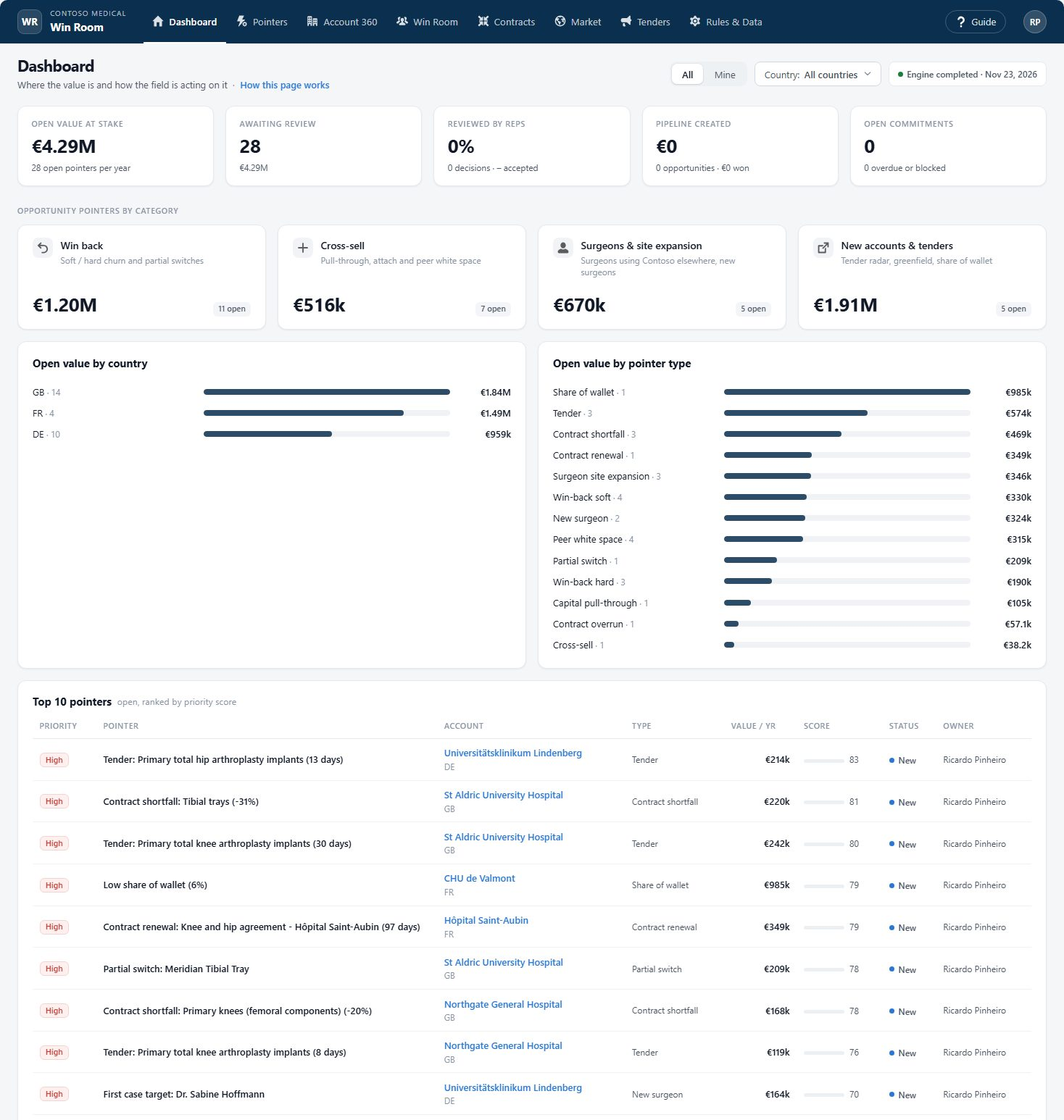
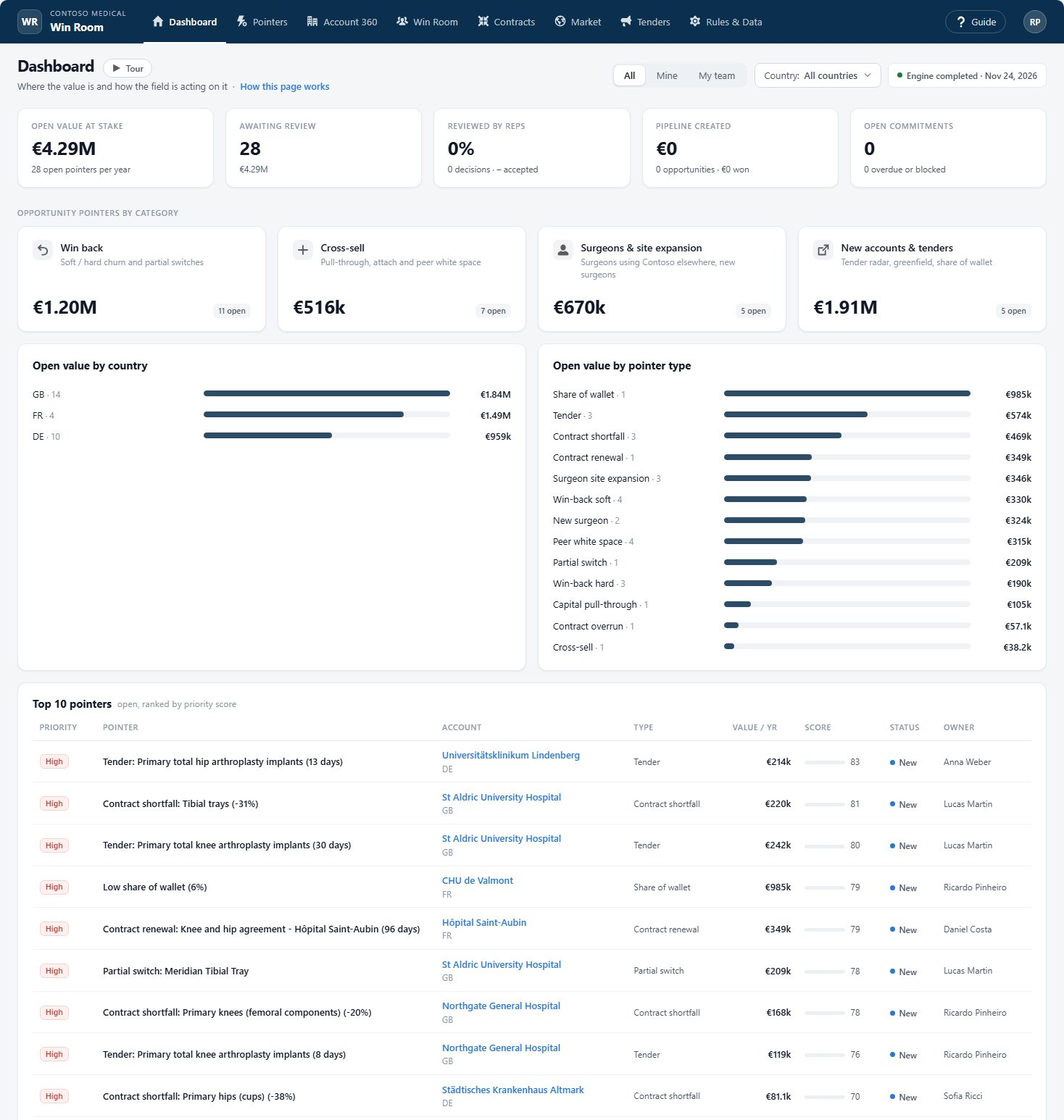
Win Room: page tours, team scope and rule dialog
Case study adds an Adoption section and five screenshots; screenshots
refreshed; M facts cover the tours, My team scope and custom rules.

diff --git a/salesforce-win-room.html b/salesforce-win-room.html
@@ -1,2 +1,2 @@
 <!DOCTYPE html>
-<html lang="en"><head><meta charset="utf-8"/><meta content="width=device-width,initial-scale=1" name="viewport"/><meta content="#070e19" name="theme-color"/><meta content="Technical case study: Salesforce Win Room by Ricardo Pinheiro. A win room for field sales built on Salesforce: a rules engine finds customer-level opportunities in sales data, reps act on explainable pointers with an optional AI summary, contracts are tracked against delivered volume, public tenders are read from the EU and UK procurement APIs, and a weekly win room turns it all into commitments, in Apex and Lightning Web Components." name="description"/><meta content="index,follow" name="robots"/><link href="https://ricardo19-deve.github.io/salesforce-win-room.html" rel="canonical"/><meta content="Salesforce Win Room — Engineering Case Study | Ricardo Pinheiro" property="og:title"/><meta content="Rules engine, explainable pointers, contract compliance and a weekly win room built on Salesforce with Apex and LWC." property="og:description"/><meta content="article" property="og:type"/><meta content="https://ricardo19-deve.github.io/salesforce-win-room.html" property="og:url"/><meta content="https://ricardo19-deve.github.io/portrait.jpg" property="og:image"/><title>Salesforce Win Room — Engineering Case Study | Ricardo Pinheiro</title><link href="case-study.css" rel="stylesheet"/></head><body><div aria-hidden="true" class="scrollbar"></div><header class="top wrap"><a class="brand" href="index.html#projects">RP<span>.</span></a><nav aria-label="Page navigation" class="topnav"><a href="index.html#projects">← All projects</a><a href="index.html#certifications">Certifications</a><a href="index.html#contact">Connect</a></nav></header><main class="wrap"><section class="hero fade"><div class="eyebrow">ENGINEERING CASE STUDY / 06</div><h1>Salesforce Win Room<span class="gradient">.</span></h1><p class="lead">From sales data to weekly commitments, inside Salesforce.</p><div class="status">Open-source module · Apex · Lightning Web Components · Experience Cloud</div></section><section aria-label="Project context" class="two fade"><div class="glass panel"><div class="small-label">THE CONTEXT</div><h2>What I set out to solve.</h2><p>Field sales teams sit on months of sales data, yet the signals in it are found late or not at all: a hospital that slowly moves one component to a competitor, a surgeon who starts operating somewhere else, a tender deadline that slips past, a contract that is quietly under-delivered. When analytics exist, they usually live outside the CRM, so nothing connects them to the pipeline or to a weekly follow-up.</p><p>This module keeps the whole loop on the platform the team already works in, published as a neutral open-source reference with fictitious data.</p></div><div class="glass panel"><div class="small-label">THE ENGINEERING QUESTION</div><h2>Explainable before intelligent.</h2><p>How can opportunities be found automatically in sales data, explained with the numbers behind them so a rep can challenge them, and followed up every week until they become committed actions, without an external analytics stack and without letting AI decide what is true?</p></div></section><section aria-label="Interactive architecture" class="architecture fade"><div class="section-heading"><div><div class="small-label">EXPLORE THE SYSTEM</div><h2 class="section-title">Architecture, <span class="gradient">layer by layer.</span></h2></div><p>Select a component to understand its responsibility. Simplified reference architecture, not a production infrastructure diagram.</p></div><div class="arch-layout"><div class="glass arch-map"><div class="arch-step"><span class="step-number">01</span><button aria-pressed="true" class="node active" data-detail="Monthly units and revenue per account and product line, account profiles (segment, procedure volumes, rollout phase), surgeons and the hospitals they operate in, public tenders read from the EU and UK procurement APIs, volume contracts and hospital volumes from a public registry. Demo data is generated with planted patterns so every rule has something to find." data-title="Data" type="button"><b>Data</b><span>Monthly sell-in · profiles · contracts</span></button></div><div aria-hidden="true" class="connector"></div><div class="arch-step"><span class="step-number">02</span><button aria-pressed="false" class="node" data-detail="Two batches: peer benchmarks per segment, then 15 configurable rules per account: churn and partial switches, component and capital pull-through, white space against similar hospitals, surgeon site expansion, new surgeons, tenders, share of wallet, and contract shortfall, overrun and renewal. One pointer per customer and product, scored 0 to 100." data-title="Rules engine" type="button"><b>Rules engine</b><span>Batch Apex · 15 rules</span></button></div><div aria-hidden="true" class="connector"></div><div class="arch-step"><span class="step-number">03</span><button aria-pressed="false" class="node" data-detail="Every pointer carries the numbers that triggered it, a chart and a plain rationale. Reps accept it, reject it with a reason or turn it into an Opportunity. An optional model behind a Named Credential writes the why, the what, talking points and questions; without it the portal shows a rule-based summary." data-title="Pointers and AI" type="button"><b>Pointers and AI</b><span>LWC portal · Named Credential</span></button></div><div aria-hidden="true" class="connector"></div><div class="arch-step"><span class="step-number">04</span><button aria-pressed="false" class="node" data-detail="A weekly win room asks the same seven questions and records commitments with owners and due dates. Contracts compare committed and delivered volume month by month with a run-rate and a projection, a market view shows public registry volumes per hospital, and a tender radar brings real public notices matched to accounts. A built-in guide explains every page and calculation." data-title="Win room and control" type="button"><b>Win room and control</b><span>Sessions · contracts · market · tenders</span></button></div></div><div aria-live="polite" class="glass panel detail"><div class="number" id="detail-num">LAYER 01 / 04</div><h3 id="detail-title">Data</h3><p id="detail-body">Monthly units and revenue per account and product line, account profiles (segment, procedure volumes, rollout phase), surgeons and the hospitals they operate in, public tenders read from the EU and UK procurement APIs, volume contracts and hospital volumes from a public registry. Demo data is generated with planted patterns so every rule has something to find.</p><div class="hint">↖ Select any architecture layer to explore</div></div></div></section><section aria-label="Identify and activate" class="two fade"><div class="glass panel"><div class="small-label">IDENTIFY</div><h2>Rules that show their working.</h2><p>Fifteen rules in eleven types look for churn, partial switches to a competitor, missing components, robotic workflows, white space against similar hospitals, surgeons who use the product elsewhere, new surgeons, tenders closing soon, low share of wallet and contracts that run under or over their commitment.</p><p>Each pointer stores the facts that triggered it and a monthly chart, so the rationale is a set of numbers, not a score from a black box. Re-running the engine updates the numbers but never overwrites a rep&#39;s decision, and pointers that are no longer detected expire.</p></div><div class="glass panel"><div class="small-label">ACTIVATE</div><h2>From pointer to Opportunity.</h2><p>Reps review the pointers ranked by value and urgency, accept them, reject them with a reason or turn them into an Opportunity in the org&#39;s first open stage. The acceptance rate per rule shows which rules need tuning.</p><p>An optional language model, reached only through a Named Credential, writes the why, the what, next best actions, talking points and discovery questions. Without it, every screen works with a rule-based summary.</p></div></section><section aria-label="Execute and control" class="two fade"><div class="glass panel"><div class="small-label">EXECUTE</div><h2>The same 7 questions every 7 days.</h2><p>A weekly win room per team reviews wins and losses, new pointers, accepted pointers without action, overdue commitments, stuck opportunities and tenders closing soon, and records what the team commits to for next week, with owners and due dates. An optional briefing prepares the facilitator.</p></div><div class="glass panel"><div class="small-label">CONTROL</div><h2>Contracts against delivered volume.</h2><p>Volume contracts hold a committed quantity per month and product line. The portal compares committed and delivered units month by month, with the cumulative variance, the six-month run-rate and a projection to the end of the term, and rates each line On track, Under or Over against a tolerance.</p><p>A shortfall becomes a win-back pointer, an overrun a prompt to renegotiate the tier, and a contract that ends within six months a renewal pointer.</p></div></section><section aria-label="Market and design" class="two fade"><div class="glass panel"><div class="small-label">MARKET</div><h2>Public registry volumes per hospital.</h2><p>A market view imports the public CSV export of the UK National Joint Registry. The browser parses the file and keeps the last 24 complete months, so only aggregates reach Salesforce, with no scraping and no callout. Hospitals are matched to accounts by hospital or trust name, and linked accounts use the real procedure volumes for share of wallet and peer sizing.</p></div><div class="glass panel"><div class="small-label">DESIGN SYSTEM</div><h2>Neutral in every org.</h2><p>Custom dropdowns, switches and buttons replace themed base components, so the portal looks the same whatever the brand colour of the org, in a Lightning tab and in a full-screen Experience Cloud (LWR) site. The line charts use a colour palette checked for colour-blind separation, with a legend, a crosshair tooltip and a table view.</p></div></section><section aria-label="Tenders and guide" class="two fade"><div class="glass panel"><div class="small-label">TENDERS</div><h2>Real public tenders, matched to accounts.</h2><p>A batch reads TED (EU), Find a Tender (UK) and Public Contracts Scotland through their public APIs, one item per source or 30-day window so every portal gets its own limits, with all callouts before any write. Notices are kept when a lot uses one of the configured CPV codes, normalised into one shape (earliest open deadline, lots summed, value converted to EUR, link to the official notice), categorised from keywords in several languages and de-duplicated across portals.</p><p>Buyers are matched to accounts of the same country after removing accents and noise words in several languages; each part of a long buyer name is scored, and a link is only automatic when two words agree. Linked open tenders become tender radar pointers, and human statuses and links survive every sync.</p></div><div class="glass panel"><div class="small-label">GUIDE</div><h2>Every number, explained in the portal.</h2><p>A guide view explains each page: what it shows, where the data comes from and how every number is calculated, from the priority score to contract projections and tender matching. It reads the live rule settings of the org, so the documentation cannot drift from what the engine uses, and it doubles as a ten-minute demo script. Every page links to its own section.</p></div></section><section aria-label="Screenshots" class="fade"><div class="small-label">SEE IT RUNNING</div><h2>Captured in a Developer Edition org.</h2><p class="shots-note">Fictitious demo data created by the seed script in the repository; the market view shows public registry volumes and the tenders view shows real public notices. Select an image to open it full size.</p><div class="shots"><figure class="shot"><a href="assets/salesforce-win-room/dashboard.jpg" target="_blank" rel="noopener"><img alt="Dashboard with value at stake, the four opportunity categories, value by country and by type, and the top 10 pointers" decoding="async" loading="lazy" src="assets/salesforce-win-room/dashboard.jpg"/></a><figcaption>Dashboard: where the value is and how the field acts on it</figcaption></figure><figure class="shot"><a href="assets/salesforce-win-room/pointers.jpg" target="_blank" rel="noopener"><img alt="Pointer list with search, filters, priority, value at stake, score, due date and owner" decoding="async" loading="lazy" src="assets/salesforce-win-room/pointers.jpg"/></a><figcaption>Pointers: ranked customer-level opportunities</figcaption></figure><figure class="shot"><a href="assets/salesforce-win-room/pointer-insight.jpg" target="_blank" rel="noopener"><img alt="Pointer detail with the rationale, the facts that triggered it, a monthly chart, the AI summary and the playbook" decoding="async" loading="lazy" src="assets/salesforce-win-room/pointer-insight.jpg"/></a><figcaption>Pointer: the why with numbers, the chart and the AI summary</figcaption></figure><figure class="shot"><a href="assets/salesforce-win-room/create-opportunity.jpg" target="_blank" rel="noopener"><img alt="Create opportunity form inside an accepted pointer" decoding="async" loading="lazy" src="assets/salesforce-win-room/create-opportunity.jpg"/></a><figcaption>From pointer to Opportunity in one step</figcaption></figure><figure class="shot"><a href="assets/salesforce-win-room/account-360.jpg" target="_blank" rel="noopener"><img alt="Account 360 with pointers by category, the contract, the revenue trend, product lines and surgeons" decoding="async" loading="lazy" src="assets/salesforce-win-room/account-360.jpg"/></a><figcaption>Account 360: one hospital, every signal</figcaption></figure><figure class="shot"><a href="assets/salesforce-win-room/win-room.jpg" target="_blank" rel="noopener"><img alt="Weekly win room session with the seven questions and the new pointers to assign" decoding="async" loading="lazy" src="assets/salesforce-win-room/win-room.jpg"/></a><figcaption>Win room: the same 7 questions every 7 days</figcaption></figure><figure class="shot"><a href="assets/salesforce-win-room/contracts.jpg" target="_blank" rel="noopener"><img alt="Contracts list with health, delivered versus committed, variance to date, annual value and renewals" decoding="async" loading="lazy" src="assets/salesforce-win-room/contracts.jpg"/></a><figcaption>Contracts: health and compliance at a glance</figcaption></figure><figure class="shot"><a href="assets/salesforce-win-room/contract-detail.jpg" target="_blank" rel="noopener"><img alt="Contract detail with committed versus delivered units per month, run-rate and projection for each line" decoding="async" loading="lazy" src="assets/salesforce-win-room/contract-detail.jpg"/></a><figcaption>Contract: committed vs delivered, month by month</figcaption></figure><figure class="shot"><a href="assets/salesforce-win-room/contract-pointer.jpg" target="_blank" rel="noopener"><img alt="Contract shortfall pointer with the delivery chart against the commitment" decoding="async" loading="lazy" src="assets/salesforce-win-room/contract-pointer.jpg"/></a><figcaption>A shortfall becomes a pointer for the win room</figcaption></figure><figure class="shot"><a href="assets/salesforce-win-room/market.jpg" target="_blank" rel="noopener"><img alt="Market view with public UK National Joint Registry hip and knee volumes per hospital, trend and market value" decoding="async" loading="lazy" src="assets/salesforce-win-room/market.jpg"/></a><figcaption>Market: public registry volumes per hospital</figcaption></figure><figure class="shot"><a href="assets/salesforce-win-room/tenders.jpg" target="_blank" rel="noopener"><img alt="Tenders view with real open notices from TED and Find a Tender, the source settings with CPV filters, deadlines, values in EUR and account matching" decoding="async" loading="lazy" src="assets/salesforce-win-room/tenders.jpg"/></a><figcaption>Tenders: real public notices, filtered and matched to accounts</figcaption></figure><figure class="shot"><a href="assets/salesforce-win-room/tender-detail.jpg" target="_blank" rel="noopener"><img alt="Expanded tender with the description, reference, CPV codes, value in the notice currency and in EUR, and status actions" decoding="async" loading="lazy" src="assets/salesforce-win-room/tender-detail.jpg"/></a><figcaption>Tender: the notice details behind the radar</figcaption></figure><figure class="shot"><a href="assets/salesforce-win-room/guide.jpg" target="_blank" rel="noopener"><img alt="In-portal guide with the loop, design principles and a table of where every piece of data comes from" decoding="async" loading="lazy" src="assets/salesforce-win-room/guide.jpg"/></a><figcaption>Guide: every page, every data source</figcaption></figure><figure class="shot"><a href="assets/salesforce-win-room/guide-calculations.jpg" target="_blank" rel="noopener"><img alt="Guide section with the rule types, the priority score formula, the dedupe rules and the live rule settings" decoding="async" loading="lazy" src="assets/salesforce-win-room/guide-calculations.jpg"/></a><figcaption>Guide: the calculations behind every number</figcaption></figure><figure class="shot"><a href="assets/salesforce-win-room/rules.jpg" target="_blank" rel="noopener"><img alt="Rules table with thresholds, windows, product lines and playbooks, editable without code" decoding="async" loading="lazy" src="assets/salesforce-win-room/rules.jpg"/></a><figcaption>Rules: tuned by the business, no code</figcaption></figure><figure class="shot"><a href="assets/salesforce-win-room/data.jpg" target="_blank" rel="noopener"><img alt="Data view with demo data generation, purge and account scope by rollout phase" decoding="async" loading="lazy" src="assets/salesforce-win-room/data.jpg"/></a><figcaption>Data: demo data and rollout scope</figcaption></figure><figure class="shot"><a href="assets/salesforce-win-room/filters.jpg" target="_blank" rel="noopener"><img alt="Scope switch and country dropdown" decoding="async" loading="lazy" src="assets/salesforce-win-room/filters.jpg"/></a><figcaption>Neutral controls that look the same in every org</figcaption></figure></div></section><section class="fade"><div class="glass panel"><div class="small-label">ENGINEERING PRACTICES</div><h2>Built to be handed over.</h2><p>Apex tests that run as a user with only the module permission set and plant every pattern the rules look for, Apex tests for the tender feeds with mocked portal responses, Jest tests for the shared helpers, the registry CSV parser, the tender view and the guide, linting and tests in continuous integration, header comments for future maintainers, a demo data generator with a compact mode for the 5 MB of a Developer Edition org, and documentation of the rules, the data model and a talk track, plus the in-portal guide.</p></div><div class="small-label" style="margin-top:70px">TECHNICAL TOOLKIT</div><div class="tags"><span class="tag">Apex</span><span class="tag">Lightning Web Components</span><span class="tag">Batch Apex</span><span class="tag">Schedulable Apex</span><span class="tag">REST callouts</span><span class="tag">OCDS</span><span class="tag">SOQL user mode</span><span class="tag">Named Credentials</span><span class="tag">Custom objects</span><span class="tag">Experience Cloud (LWR)</span><span class="tag">SVG charts</span><span class="tag">CSS design tokens</span><span class="tag">Browser-side CSV parsing</span><span class="tag">Apex tests</span><span class="tag">Jest</span><span class="tag">GitHub Actions</span></div><div class="glass panel"><div class="small-label">CURRENT STATE / NEXT EVIDENCE</div><h2>What the evidence supports.</h2><p>The module is published as an open-source repository and deploys to a Salesforce Developer Edition org. The screenshots above come from such an org with fictitious data; the only real data shown is the public registry export and public tender notices.</p></div><div class="links"><a class="linkbtn" href="https://github.com/Ricardo19-Deve/salesforce-win-room" rel="noopener noreferrer" target="_blank">View source on GitHub ↗</a><a class="linkbtn" href="https://www.linkedin.com/in/ricardoappinheiro/" rel="noopener noreferrer" target="_blank">Discuss this project ↗</a><a class="linkbtn" href="index.html#projects">Back to portfolio ↗</a></div></section></main><footer class="footer wrap"><span>Ricardo Pinheiro · Open-source engineering case study</span><span>Designed to be explored, not just read.</span></footer><script defer="" src="case-study.js"></script><script type="module" src="./m-analytics-bootstrap.mjs?v=34"></script></body></html>
+<html lang="en"><head><meta charset="utf-8"/><meta content="width=device-width,initial-scale=1" name="viewport"/><meta content="#070e19" name="theme-color"/><meta content="Technical case study: Salesforce Win Room by Ricardo Pinheiro. A win room for field sales built on Salesforce: a rules engine finds customer-level opportunities in sales data, reps act on explainable pointers with an optional AI summary, contracts are tracked against delivered volume, public tenders are read from the EU and UK procurement APIs, and a weekly win room turns it all into commitments, in Apex and Lightning Web Components." name="description"/><meta content="index,follow" name="robots"/><link href="https://ricardo19-deve.github.io/salesforce-win-room.html" rel="canonical"/><meta content="Salesforce Win Room — Engineering Case Study | Ricardo Pinheiro" property="og:title"/><meta content="Rules engine, explainable pointers, contract compliance and a weekly win room built on Salesforce with Apex and LWC." property="og:description"/><meta content="article" property="og:type"/><meta content="https://ricardo19-deve.github.io/salesforce-win-room.html" property="og:url"/><meta content="https://ricardo19-deve.github.io/portrait.jpg" property="og:image"/><title>Salesforce Win Room — Engineering Case Study | Ricardo Pinheiro</title><link href="case-study.css" rel="stylesheet"/></head><body><div aria-hidden="true" class="scrollbar"></div><header class="top wrap"><a class="brand" href="index.html#projects">RP<span>.</span></a><nav aria-label="Page navigation" class="topnav"><a href="index.html#projects">← All projects</a><a href="index.html#certifications">Certifications</a><a href="index.html#contact">Connect</a></nav></header><main class="wrap"><section class="hero fade"><div class="eyebrow">ENGINEERING CASE STUDY / 06</div><h1>Salesforce Win Room<span class="gradient">.</span></h1><p class="lead">From sales data to weekly commitments, inside Salesforce.</p><div class="status">Open-source module · Apex · Lightning Web Components · Experience Cloud</div></section><section aria-label="Project context" class="two fade"><div class="glass panel"><div class="small-label">THE CONTEXT</div><h2>What I set out to solve.</h2><p>Field sales teams sit on months of sales data, yet the signals in it are found late or not at all: a hospital that slowly moves one component to a competitor, a surgeon who starts operating somewhere else, a tender deadline that slips past, a contract that is quietly under-delivered. When analytics exist, they usually live outside the CRM, so nothing connects them to the pipeline or to a weekly follow-up.</p><p>This module keeps the whole loop on the platform the team already works in, published as a neutral open-source reference with fictitious data.</p></div><div class="glass panel"><div class="small-label">THE ENGINEERING QUESTION</div><h2>Explainable before intelligent.</h2><p>How can opportunities be found automatically in sales data, explained with the numbers behind them so a rep can challenge them, and followed up every week until they become committed actions, without an external analytics stack and without letting AI decide what is true?</p></div></section><section aria-label="Interactive architecture" class="architecture fade"><div class="section-heading"><div><div class="small-label">EXPLORE THE SYSTEM</div><h2 class="section-title">Architecture, <span class="gradient">layer by layer.</span></h2></div><p>Select a component to understand its responsibility. Simplified reference architecture, not a production infrastructure diagram.</p></div><div class="arch-layout"><div class="glass arch-map"><div class="arch-step"><span class="step-number">01</span><button aria-pressed="true" class="node active" data-detail="Monthly units and revenue per account and product line, account profiles (segment, procedure volumes, rollout phase), surgeons and the hospitals they operate in, public tenders read from the EU and UK procurement APIs, volume contracts and hospital volumes from a public registry. Demo data is generated with planted patterns so every rule has something to find." data-title="Data" type="button"><b>Data</b><span>Monthly sell-in · profiles · contracts</span></button></div><div aria-hidden="true" class="connector"></div><div class="arch-step"><span class="step-number">02</span><button aria-pressed="false" class="node" data-detail="Two batches: peer benchmarks per segment, then 15 configurable rules per account: churn and partial switches, component and capital pull-through, white space against similar hospitals, surgeon site expansion, new surgeons, tenders, share of wallet, and contract shortfall, overrun and renewal. One pointer per customer and product, scored 0 to 100." data-title="Rules engine" type="button"><b>Rules engine</b><span>Batch Apex · 15 rules</span></button></div><div aria-hidden="true" class="connector"></div><div class="arch-step"><span class="step-number">03</span><button aria-pressed="false" class="node" data-detail="Every pointer carries the numbers that triggered it, a chart and a plain rationale. Reps accept it, reject it with a reason or turn it into an Opportunity. An optional model behind a Named Credential writes the why, the what, talking points and questions; without it the portal shows a rule-based summary." data-title="Pointers and AI" type="button"><b>Pointers and AI</b><span>LWC portal · Named Credential</span></button></div><div aria-hidden="true" class="connector"></div><div class="arch-step"><span class="step-number">04</span><button aria-pressed="false" class="node" data-detail="A weekly win room asks the same seven questions and records commitments with owners and due dates. Contracts compare committed and delivered volume month by month with a run-rate and a projection, a market view shows public registry volumes per hospital, and a tender radar brings real public notices matched to accounts. A built-in guide explains every page and calculation." data-title="Win room and control" type="button"><b>Win room and control</b><span>Sessions · contracts · market · tenders</span></button></div></div><div aria-live="polite" class="glass panel detail"><div class="number" id="detail-num">LAYER 01 / 04</div><h3 id="detail-title">Data</h3><p id="detail-body">Monthly units and revenue per account and product line, account profiles (segment, procedure volumes, rollout phase), surgeons and the hospitals they operate in, public tenders read from the EU and UK procurement APIs, volume contracts and hospital volumes from a public registry. Demo data is generated with planted patterns so every rule has something to find.</p><div class="hint">↖ Select any architecture layer to explore</div></div></div></section><section aria-label="Identify and activate" class="two fade"><div class="glass panel"><div class="small-label">IDENTIFY</div><h2>Rules that show their working.</h2><p>Fifteen rules in eleven types look for churn, partial switches to a competitor, missing components, robotic workflows, white space against similar hospitals, surgeons who use the product elsewhere, new surgeons, tenders closing soon, low share of wallet and contracts that run under or over their commitment.</p><p>Each pointer stores the facts that triggered it and a monthly chart, so the rationale is a set of numbers, not a score from a black box. Re-running the engine updates the numbers but never overwrites a rep&#39;s decision, and pointers that are no longer detected expire.</p></div><div class="glass panel"><div class="small-label">ACTIVATE</div><h2>From pointer to Opportunity.</h2><p>Reps review the pointers ranked by value and urgency, accept them, reject them with a reason or turn them into an Opportunity in the org&#39;s first open stage. The acceptance rate per rule shows which rules need tuning.</p><p>An optional language model, reached only through a Named Credential, writes the why, the what, next best actions, talking points and discovery questions. Without it, every screen works with a rule-based summary.</p></div></section><section aria-label="Execute and control" class="two fade"><div class="glass panel"><div class="small-label">EXECUTE</div><h2>The same 7 questions every 7 days.</h2><p>A weekly win room per team reviews wins and losses, new pointers, accepted pointers without action, overdue commitments, stuck opportunities and tenders closing soon, and records what the team commits to for next week, with owners and due dates. An optional briefing prepares the facilitator.</p></div><div class="glass panel"><div class="small-label">CONTROL</div><h2>Contracts against delivered volume.</h2><p>Volume contracts hold a committed quantity per month and product line. The portal compares committed and delivered units month by month, with the cumulative variance, the six-month run-rate and a projection to the end of the term, and rates each line On track, Under or Over against a tolerance.</p><p>A shortfall becomes a win-back pointer, an overrun a prompt to renegotiate the tier, and a contract that ends within six months a renewal pointer.</p></div></section><section aria-label="Market and design" class="two fade"><div class="glass panel"><div class="small-label">MARKET</div><h2>Public registry volumes per hospital.</h2><p>A market view imports the public CSV export of the UK National Joint Registry. The browser parses the file and keeps the last 24 complete months, so only aggregates reach Salesforce, with no scraping and no callout. Hospitals are matched to accounts by hospital or trust name, and linked accounts use the real procedure volumes for share of wallet and peer sizing.</p></div><div class="glass panel"><div class="small-label">DESIGN SYSTEM</div><h2>Neutral in every org.</h2><p>Custom dropdowns, switches and buttons replace themed base components, so the portal looks the same whatever the brand colour of the org, in a Lightning tab and in a full-screen Experience Cloud (LWR) site. The line charts use a colour palette checked for colour-blind separation, with a legend, a crosshair tooltip and a table view.</p></div></section><section aria-label="Tenders and guide" class="two fade"><div class="glass panel"><div class="small-label">TENDERS</div><h2>Real public tenders, matched to accounts.</h2><p>A batch reads TED (EU), Find a Tender (UK) and Public Contracts Scotland through their public APIs, one item per source or 30-day window so every portal gets its own limits, with all callouts before any write. Notices are kept when a lot uses one of the configured CPV codes, normalised into one shape (earliest open deadline, lots summed, value converted to EUR, link to the official notice), categorised from keywords in several languages and de-duplicated across portals.</p><p>Buyers are matched to accounts of the same country after removing accents and noise words in several languages; each part of a long buyer name is scored, and a link is only automatic when two words agree. Linked open tenders become tender radar pointers, and human statuses and links survive every sync.</p></div><div class="glass panel"><div class="small-label">GUIDE</div><h2>Every number, explained in the portal.</h2><p>A guide view explains each page: what it shows, where the data comes from and how every number is calculated, from the priority score to contract projections and tender matching. It reads the live rule settings of the org, so the documentation cannot drift from what the engine uses, and it doubles as a ten-minute demo script. Every page links to its own section.</p></div></section><section aria-label="Adoption" class="two fade"><div class="glass panel"><div class="small-label">ADOPTION</div><h2>A tour on every page.</h2><p>A Tour button next to each page title dims the screen and highlights the blocks of the page one by one: what each block is for, how its numbers are calculated and where the data comes from. Steps are data, each page exposes one small measuring method, and the spotlight follows scrolling and works with the keyboard. It turns a demo into a guided walk and gives new users an onboarding without a manual.</p></div><div class="glass panel"><div class="small-label">TEAMS AND RULES</div><h2>Manager view and rules without code.</h2><p>All, Mine and My team scopes follow the standard manager field of the user, so a sales manager sees the work of their reps. The demo adds six fictitious reps as free Chatter users, created with the welcome e-mail switched off. Rules are edited in a dialog that only shows the parameters each rule type uses, and admins can add a new rule of any of the eleven types or delete the ones they added.</p></div></section><section aria-label="Screenshots" class="fade"><div class="small-label">SEE IT RUNNING</div><h2>Captured in a Developer Edition org.</h2><p class="shots-note">Fictitious demo data created by the seed script in the repository; the market view shows public registry volumes and the tenders view shows real public notices. Select an image to open it full size.</p><div class="shots"><figure class="shot"><a href="assets/salesforce-win-room/dashboard.jpg" target="_blank" rel="noopener"><img alt="Dashboard with value at stake, the four opportunity categories, value by country and by type, and the top 10 pointers" decoding="async" loading="lazy" src="assets/salesforce-win-room/dashboard.jpg"/></a><figcaption>Dashboard: where the value is and how the field acts on it</figcaption></figure><figure class="shot"><a href="assets/salesforce-win-room/pointers.jpg" target="_blank" rel="noopener"><img alt="Pointer list with search, filters, priority, value at stake, score, due date and owner" decoding="async" loading="lazy" src="assets/salesforce-win-room/pointers.jpg"/></a><figcaption>Pointers: ranked customer-level opportunities</figcaption></figure><figure class="shot"><a href="assets/salesforce-win-room/pointer-insight.jpg" target="_blank" rel="noopener"><img alt="Pointer detail with the rationale, the facts that triggered it, a monthly chart, the AI summary and the playbook" decoding="async" loading="lazy" src="assets/salesforce-win-room/pointer-insight.jpg"/></a><figcaption>Pointer: the why with numbers, the chart and the AI summary</figcaption></figure><figure class="shot"><a href="assets/salesforce-win-room/create-opportunity.jpg" target="_blank" rel="noopener"><img alt="Create opportunity form inside an accepted pointer" decoding="async" loading="lazy" src="assets/salesforce-win-room/create-opportunity.jpg"/></a><figcaption>From pointer to Opportunity in one step</figcaption></figure><figure class="shot"><a href="assets/salesforce-win-room/account-360.jpg" target="_blank" rel="noopener"><img alt="Account 360 with pointers by category, the contract, the revenue trend, product lines and surgeons" decoding="async" loading="lazy" src="assets/salesforce-win-room/account-360.jpg"/></a><figcaption>Account 360: one hospital, every signal</figcaption></figure><figure class="shot"><a href="assets/salesforce-win-room/win-room.jpg" target="_blank" rel="noopener"><img alt="Weekly win room session with the seven questions and the new pointers to assign" decoding="async" loading="lazy" src="assets/salesforce-win-room/win-room.jpg"/></a><figcaption>Win room: the same 7 questions every 7 days</figcaption></figure><figure class="shot"><a href="assets/salesforce-win-room/contracts.jpg" target="_blank" rel="noopener"><img alt="Contracts list with health, delivered versus committed, variance to date, annual value and renewals" decoding="async" loading="lazy" src="assets/salesforce-win-room/contracts.jpg"/></a><figcaption>Contracts: health and compliance at a glance</figcaption></figure><figure class="shot"><a href="assets/salesforce-win-room/contract-detail.jpg" target="_blank" rel="noopener"><img alt="Contract detail with committed versus delivered units per month, run-rate and projection for each line" decoding="async" loading="lazy" src="assets/salesforce-win-room/contract-detail.jpg"/></a><figcaption>Contract: committed vs delivered, month by month</figcaption></figure><figure class="shot"><a href="assets/salesforce-win-room/contract-pointer.jpg" target="_blank" rel="noopener"><img alt="Contract shortfall pointer with the delivery chart against the commitment" decoding="async" loading="lazy" src="assets/salesforce-win-room/contract-pointer.jpg"/></a><figcaption>A shortfall becomes a pointer for the win room</figcaption></figure><figure class="shot"><a href="assets/salesforce-win-room/market.jpg" target="_blank" rel="noopener"><img alt="Market view with public UK National Joint Registry hip and knee volumes per hospital, trend and market value" decoding="async" loading="lazy" src="assets/salesforce-win-room/market.jpg"/></a><figcaption>Market: public registry volumes per hospital</figcaption></figure><figure class="shot"><a href="assets/salesforce-win-room/tenders.jpg" target="_blank" rel="noopener"><img alt="Tenders view with real open notices from TED and Find a Tender, the source settings with CPV filters, deadlines, values in EUR and account matching" decoding="async" loading="lazy" src="assets/salesforce-win-room/tenders.jpg"/></a><figcaption>Tenders: real public notices, filtered and matched to accounts</figcaption></figure><figure class="shot"><a href="assets/salesforce-win-room/tender-detail.jpg" target="_blank" rel="noopener"><img alt="Expanded tender with the description, reference, CPV codes, value in the notice currency and in EUR, and status actions" decoding="async" loading="lazy" src="assets/salesforce-win-room/tender-detail.jpg"/></a><figcaption>Tender: the notice details behind the radar</figcaption></figure><figure class="shot"><a href="assets/salesforce-win-room/guide.jpg" target="_blank" rel="noopener"><img alt="In-portal guide with the loop, design principles and a table of where every piece of data comes from" decoding="async" loading="lazy" src="assets/salesforce-win-room/guide.jpg"/></a><figcaption>Guide: every page, every data source</figcaption></figure><figure class="shot"><a href="assets/salesforce-win-room/guide-calculations.jpg" target="_blank" rel="noopener"><img alt="Guide section with the rule types, the priority score formula, the dedupe rules and the live rule settings" decoding="async" loading="lazy" src="assets/salesforce-win-room/guide-calculations.jpg"/></a><figcaption>Guide: the calculations behind every number</figcaption></figure><figure class="shot"><a href="assets/salesforce-win-room/tour.jpg" target="_blank" rel="noopener"><img alt="Page tour highlighting the headline numbers of the dashboard with an explanation and the data source" decoding="async" loading="lazy" src="assets/salesforce-win-room/tour.jpg"/></a><figcaption>Tour: every block of the page, highlighted and explained</figcaption></figure><figure class="shot"><a href="assets/salesforce-win-room/tour-top10.jpg" target="_blank" rel="noopener"><img alt="Tour step on the top 10 pointers explaining the priority score" decoding="async" loading="lazy" src="assets/salesforce-win-room/tour-top10.jpg"/></a><figcaption>Tour step: why these ten pointers come first</figcaption></figure><figure class="shot"><a href="assets/salesforce-win-room/team-scope.jpg" target="_blank" rel="noopener"><img alt="Dashboard filtered on My team, the pointers of the manager and the reps who report to them" decoding="async" loading="lazy" src="assets/salesforce-win-room/team-scope.jpg"/></a><figcaption>My team: the manager view</figcaption></figure><figure class="shot"><a href="assets/salesforce-win-room/rule-dialog.jpg" target="_blank" rel="noopener"><img alt="Rule dialog showing only the parameters of the rule type, product lines as chips and the playbook" decoding="async" loading="lazy" src="assets/salesforce-win-room/rule-dialog.jpg"/></a><figcaption>Rules: edited in a dialog, per rule type</figcaption></figure><figure class="shot"><a href="assets/salesforce-win-room/new-rule.jpg" target="_blank" rel="noopener"><img alt="New rule dialog with the rule type, generated code and default parameters" decoding="async" loading="lazy" src="assets/salesforce-win-room/new-rule.jpg"/></a><figcaption>New rule of any type, without code</figcaption></figure><figure class="shot"><a href="assets/salesforce-win-room/rules.jpg" target="_blank" rel="noopener"><img alt="Rules table with thresholds, windows, product lines and playbooks, editable without code" decoding="async" loading="lazy" src="assets/salesforce-win-room/rules.jpg"/></a><figcaption>Rules: tuned by the business, no code</figcaption></figure><figure class="shot"><a href="assets/salesforce-win-room/data.jpg" target="_blank" rel="noopener"><img alt="Data view with demo data generation, purge and account scope by rollout phase" decoding="async" loading="lazy" src="assets/salesforce-win-room/data.jpg"/></a><figcaption>Data: demo data and rollout scope</figcaption></figure><figure class="shot"><a href="assets/salesforce-win-room/filters.jpg" target="_blank" rel="noopener"><img alt="Scope switch and country dropdown" decoding="async" loading="lazy" src="assets/salesforce-win-room/filters.jpg"/></a><figcaption>Neutral controls that look the same in every org</figcaption></figure></div></section><section class="fade"><div class="glass panel"><div class="small-label">ENGINEERING PRACTICES</div><h2>Built to be handed over.</h2><p>Apex tests that run as a user with only the module permission set and plant every pattern the rules look for, Apex tests for the tender feeds with mocked portal responses, Jest tests for the shared helpers, the registry CSV parser, the tender view, the guide and the page tours, linting and tests in continuous integration, header comments for future maintainers, a demo data generator with a compact mode for the 5 MB of a Developer Edition org, and documentation of the rules, the data model and a talk track, plus the in-portal guide.</p></div><div class="small-label" style="margin-top:70px">TECHNICAL TOOLKIT</div><div class="tags"><span class="tag">Apex</span><span class="tag">Lightning Web Components</span><span class="tag">Batch Apex</span><span class="tag">Schedulable Apex</span><span class="tag">REST callouts</span><span class="tag">OCDS</span><span class="tag">SOQL user mode</span><span class="tag">Named Credentials</span><span class="tag">Custom objects</span><span class="tag">Experience Cloud (LWR)</span><span class="tag">SVG charts</span><span class="tag">CSS design tokens</span><span class="tag">Browser-side CSV parsing</span><span class="tag">Apex tests</span><span class="tag">Jest</span><span class="tag">GitHub Actions</span></div><div class="glass panel"><div class="small-label">CURRENT STATE / NEXT EVIDENCE</div><h2>What the evidence supports.</h2><p>The module is published as an open-source repository and deploys to a Salesforce Developer Edition org. The screenshots above come from such an org with fictitious data; the only real data shown is the public registry export and public tender notices.</p></div><div class="links"><a class="linkbtn" href="https://github.com/Ricardo19-Deve/salesforce-win-room" rel="noopener noreferrer" target="_blank">View source on GitHub ↗</a><a class="linkbtn" href="https://www.linkedin.com/in/ricardoappinheiro/" rel="noopener noreferrer" target="_blank">Discuss this project ↗</a><a class="linkbtn" href="index.html#projects">Back to portfolio ↗</a></div></section></main><footer class="footer wrap"><span>Ricardo Pinheiro · Open-source engineering case study</span><span>Designed to be explored, not just read.</span></footer><script defer="" src="case-study.js"></script><script type="module" src="./m-analytics-bootstrap.mjs?v=34"></script></body></html>
